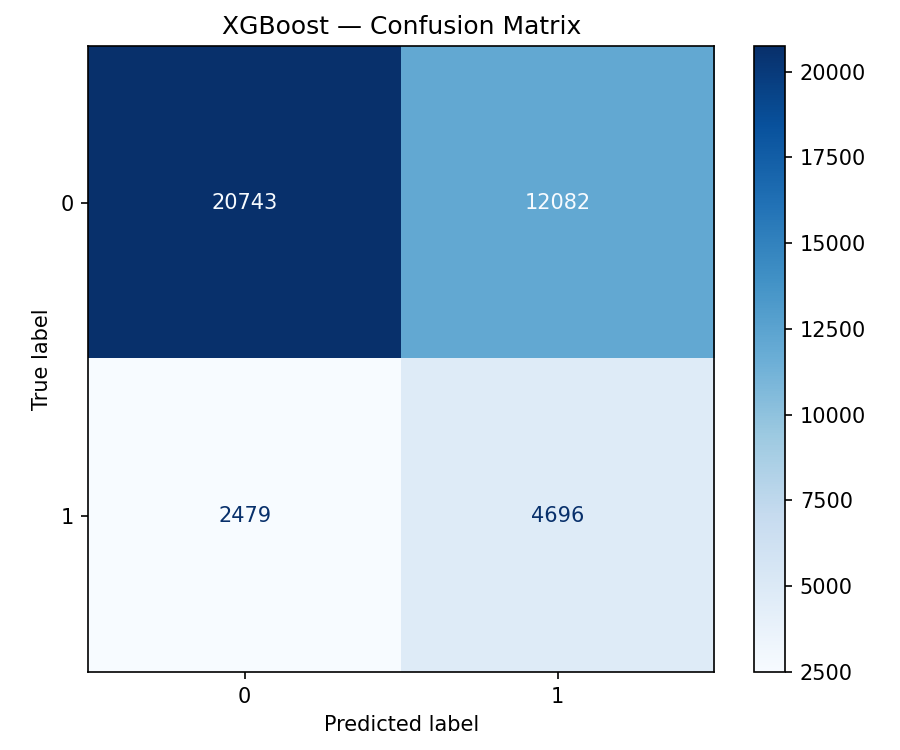
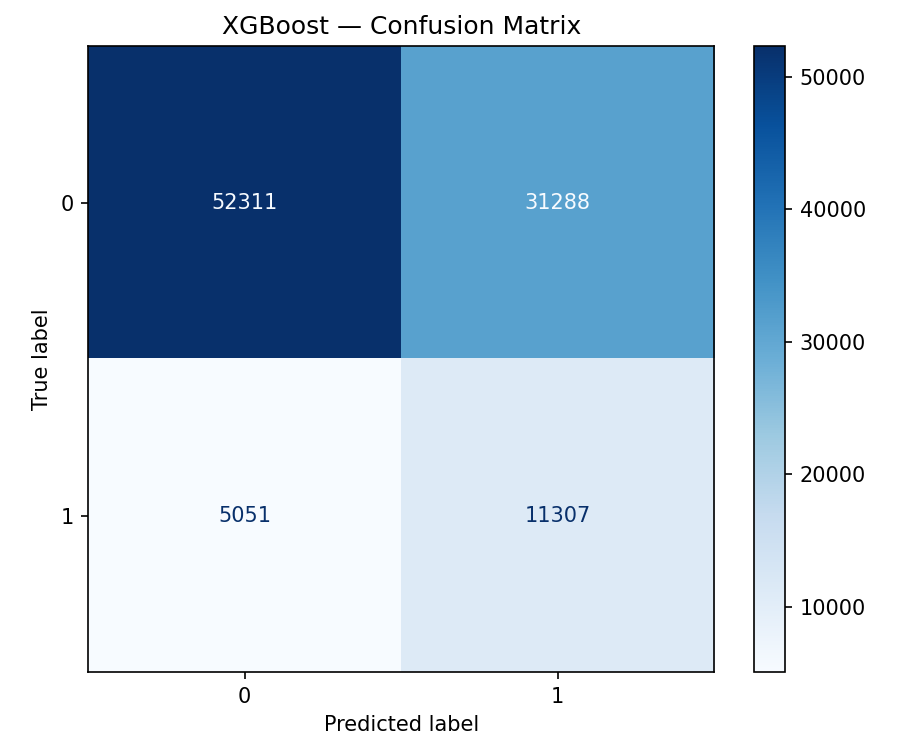
feat: Enhance app functionality with dataset selection, SHAP explanations, and improved data loading

diff --git a/app.py b/app.py
@@ -2,11 +2,13 @@
 GreenScore — Streamlit Dashboard
 ==================================
 Main entry point for the Climate-Adjusted Credit Risk Engine.
-Provides scenario selection, CSV upload, CPD computation,
-interactive charts, geographic heatmap, and report generation.
+Provides scenario selection, dataset selector, CSV upload, CPD
+computation, interactive charts, geographic heatmap, SHAP
+explanations, and report generation.
 """
 
 import logging
+import os
 
 import joblib
 import numpy as np
@@ -22,6 +24,7 @@ from cpd_engine import get_baseline_pd
 from physical_risk import apply_physical_risk
 from transition_risk import apply_transition_risk
 from report_gen import generate_pdf_report
+from dataset_adapters import DATASET_REGISTRY, adapt_home_credit, adapt_indian_bank
 
 logger = logging.getLogger(__name__)
 
@@ -53,6 +56,17 @@ with st.sidebar:
     st.metric("Carbon Price (2030)", f"${carbon_price}/tCO₂")
 
     st.markdown("---")
+    st.subheader("📁 Dataset Source")
+    dataset_options = {k: v['label'] for k, v in DATASET_REGISTRY.items()}
+    dataset_options['custom'] = '📂 Custom Upload'
+    dataset_choice = st.selectbox(
+        "Select Dataset",
+        list(dataset_options.keys()),
+        format_func=lambda x: dataset_options[x],
+        help="Choose a built-in dataset or upload your own CSV",
+    )
+
+    st.markdown("---")
     st.subheader("🎚 Sensitivity Analysis")
     severity_factor = st.slider(
         "Physical Risk Severity Factor",
@@ -66,7 +80,7 @@ with st.sidebar:
     )
 
     st.markdown("---")
-    st.markdown("**Model**: XGBoost + Physical + Transition Risk")
+    st.markdown("**Model**: XGBoost (Optuna-tuned) + LightGBM + SHAP")
     st.markdown("**Regulatory**: RBI Climate Risk Framework 2024")
     st.markdown("---")
     st.markdown("### 📚 References")
@@ -105,28 +119,50 @@ def compute_cpd(df, model, scenario_key, sev_factor, trans_scaling):
 
 
 # ─────────────────────────────────────────────────────────
-# File Upload + Validation
+# Data Loading — Built-in datasets or custom upload
 # ─────────────────────────────────────────────────────────
-uploaded = st.file_uploader(
-    "📂 Upload Loan Portfolio (CSV)",
-    type=['csv'],
-    help=f"Required: {', '.join(REQUIRED_COLS)}. Optional: {', '.join(OPTIONAL_COLS)}",
-)
+df = None
 
-if uploaded:
-    df = pd.read_csv(uploaded, low_memory=False)
-
-    # ── Input Validation ──
-    missing = [c for c in REQUIRED_COLS if c not in df.columns]
-    if missing:
-        st.error(f"❌ **Missing required columns:** {', '.join(missing)}")
-        st.markdown("Your CSV must contain these columns:")
-        for col in REQUIRED_COLS:
-            icon = "✅" if col in df.columns else "❌"
-            st.markdown(f"  {icon} `{col}`")
+if dataset_choice == 'custom':
+    uploaded = st.file_uploader(
+        "📂 Upload Loan Portfolio (CSV)",
+        type=['csv'],
+        help=f"Required: {', '.join(REQUIRED_COLS)}. Optional: {', '.join(OPTIONAL_COLS)}",
+    )
+    if uploaded:
+        df = pd.read_csv(uploaded, low_memory=False)
+else:
+    ds_info = DATASET_REGISTRY[dataset_choice]
+    ds_path = ds_info['path']
+    if not os.path.exists(ds_path):
+        st.error(f"❌ Dataset file not found: `{ds_path}`. Please download it first (see README).")
         st.stop()
 
-    # Clean numeric types
+    @st.cache_data(show_spinner=f"Loading {ds_info['label']}…")
+    def _load_builtin(key, path, nrows=50000):
+        if DATASET_REGISTRY[key]['loader'] is not None:
+            return DATASET_REGISTRY[key]['loader'](path=path, nrows=nrows)
+        else:
+            from cpd_engine import load_data
+            return load_data(path, nrows=nrows)
+
+    df = _load_builtin(dataset_choice, ds_path)
+    st.success(f"✅ Loaded **{ds_info['label']}** — {len(df):,} loans")
+
+if df is not None:
+
+    # ── Input Validation (custom uploads only) ──
+    if dataset_choice == 'custom':
+        missing = [c for c in REQUIRED_COLS if c not in df.columns]
+        if missing:
+            st.error(f"❌ **Missing required columns:** {', '.join(missing)}")
+            st.markdown("Your CSV must contain these columns:")
+            for col in REQUIRED_COLS:
+                icon = "✅" if col in df.columns else "❌"
+                st.markdown(f"  {icon} `{col}`")
+            st.stop()
+
+    # Clean numeric types (safe for all sources)
     for col in ['dti', 'annual_inc', 'fico_range_low', 'installment']:
         if col in df.columns:
             df[col] = pd.to_numeric(df[col].astype(str).str.replace('%', '', regex=False), errors='coerce')
@@ -161,8 +197,8 @@ if uploaded:
     # ═══════════════════════════════════════════════
     # TABS
     # ═══════════════════════════════════════════════
-    tab_overview, tab_compare, tab_map, tab_sector, tab_top20, tab_results = st.tabs([
-        "📊 Overview", "🔀 Multi-Scenario", "🗺 Heatmap", "🏭 Sectors", "🔝 Top 20 Risk", "📋 Results",
+    tab_overview, tab_compare, tab_map, tab_sector, tab_shap, tab_top20, tab_results = st.tabs([
+        "📊 Overview", "🔀 Multi-Scenario", "🗺 Heatmap", "🏭 Sectors", "🔍 SHAP", "🔝 Top 20 Risk", "📋 Results",
     ])
 
     # ── TAB 1: Overview ──
@@ -309,7 +345,78 @@ if uploaded:
         else:
             st.info("No `purpose` column found.")
 
-    # ── TAB 5: Top 20 Riskiest Loans ──
+    # ── TAB 5: SHAP Explainability ──
+    with tab_shap:
+        st.subheader("🔍 SHAP Feature Explanations")
+        st.markdown(
+            "SHAP (SHapley Additive exPlanations) values show **how each feature "
+            "contributes to individual predictions**. Red = pushes PD higher, Blue = pushes PD lower."
+        )
+
+        shap_beeswarm = os.path.join('models', 'shap_beeswarm.png')
+        shap_importance = os.path.join('models', 'shap_importance.png')
+
+        if os.path.exists(shap_beeswarm) and os.path.exists(shap_importance):
+            shap_col1, shap_col2 = st.columns(2)
+            with shap_col1:
+                st.markdown("#### Beeswarm Plot")
+                st.image(shap_beeswarm, use_container_width=True)
+                st.caption(
+                    "Each dot = one loan. Position on X-axis = SHAP value (impact on PD). "
+                    "Color = feature value (red = high, blue = low)."
+                )
+            with shap_col2:
+                st.markdown("#### Feature Importance (Mean |SHAP|)")
+                st.image(shap_importance, use_container_width=True)
+                st.caption(
+                    "Average absolute SHAP value per feature. Higher = more influential on default prediction."
+                )
+
+            # Live SHAP for a single loan
+            st.markdown("---")
+            st.markdown("#### 🔬 Explain a Single Loan")
+            loan_idx = st.number_input(
+                "Select loan index to explain",
+                min_value=0, max_value=len(df) - 1, value=0, step=1,
+            )
+            try:
+                import shap
+                shap_sample = df.iloc[[loan_idx]]
+                X_sample = shap_sample[config.ALL_FEATURES].copy()
+                for feat in config.ALL_FEATURES:
+                    if feat not in X_sample.columns:
+                        X_sample[feat] = 0
+                X_sample = X_sample.fillna(X_sample.median())
+
+                explainer = shap.TreeExplainer(model)
+                shap_vals = explainer(X_sample)
+
+                # Build a waterfall-style table (Streamlit-friendly)
+                feat_names = config.ALL_FEATURES
+                sv = shap_vals.values[0]
+                base = float(explainer.expected_value)
+                waterfall_df = pd.DataFrame({
+                    'Feature': feat_names,
+                    'Feature Value': [f"{X_sample[f].values[0]:.4f}" for f in feat_names],
+                    'SHAP Value': sv,
+                    'Direction': ['↑ Increases PD' if v > 0 else '↓ Decreases PD' for v in sv],
+                }).sort_values('SHAP Value', key=abs, ascending=False)
+
+                st.markdown(f"**Base value (avg prediction):** {base:.4f}")
+                st.markdown(f"**This loan's predicted PD:** {base + sv.sum():.4f}")
+                st.dataframe(
+                    waterfall_df.style.background_gradient(subset=['SHAP Value'], cmap='RdBu_r'),
+                    use_container_width=True, hide_index=True,
+                )
+            except Exception as e:
+                st.warning(f"Live SHAP explanation unavailable: {e}")
+        else:
+            st.warning(
+                "⚠ SHAP plots not found. Retrain the model with:\n\n"
+                "```bash\npython3 cpd_engine.py data/accepted_2007_to_2018Q4.csv 500000 --tune\n```"
+            )
+
+    # ── TAB 6: Top 20 Riskiest Loans ──
     with tab_top20:
         st.subheader("🔝 Top 20 Riskiest Loans")
         top_cols = [c for c in ['loan_amnt', 'addr_state', 'purpose', 'annual_inc',
@@ -321,7 +428,7 @@ if uploaded:
             use_container_width=True,
         )
 
-    # ── TAB 6: Full Results ──
+    # ── TAB 7: Full Results ──
     with tab_results:
         st.subheader("📋 Loan-Level CPD Results")
         display_cols = [c for c in ['loan_amnt', 'addr_state', 'purpose',
